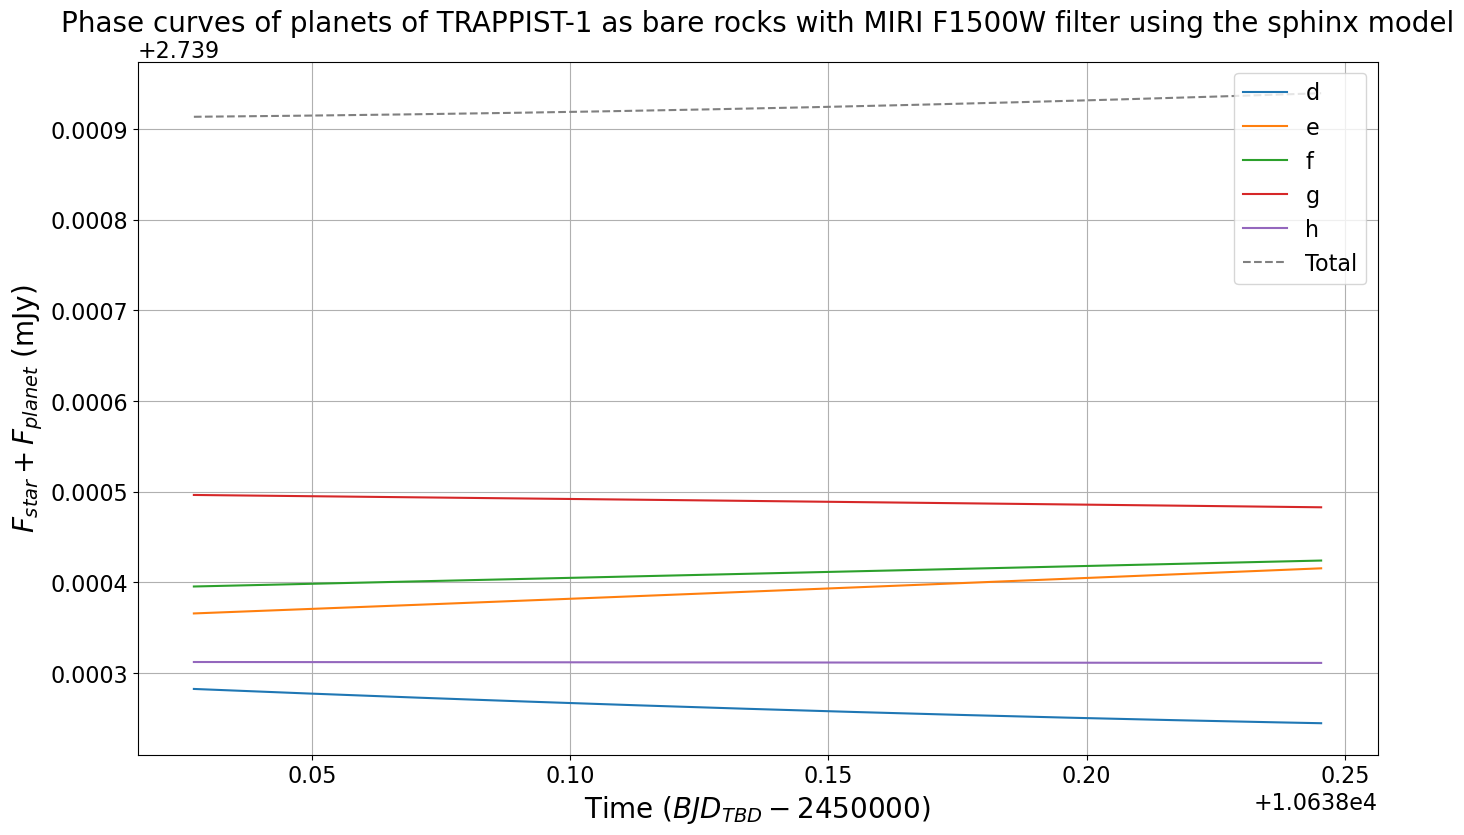
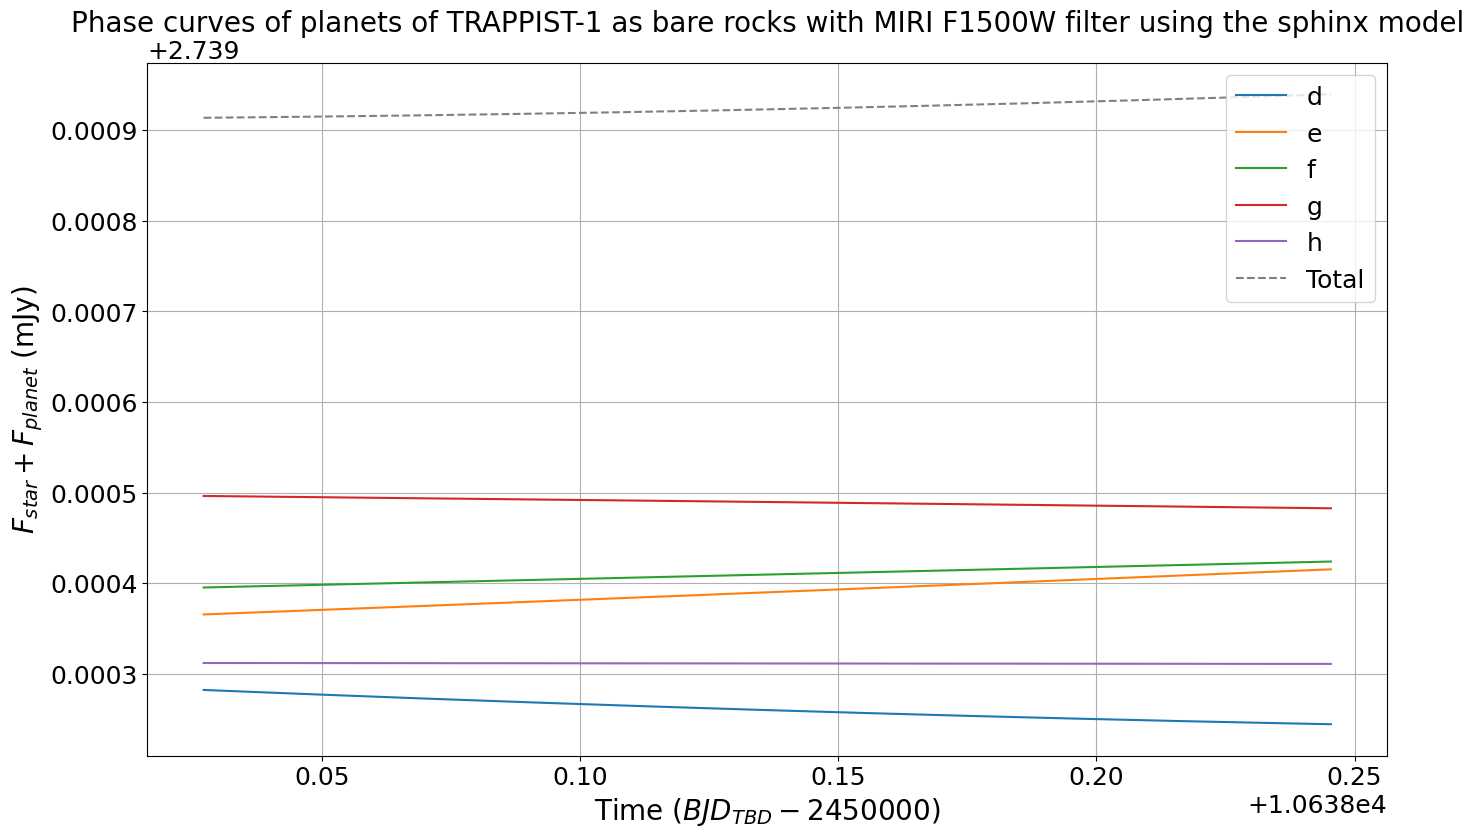
Completed implementation of new fluxes

diff --git a/Code_files/JWST_Obs_plot.py b/Code_files/JWST_Obs_plot.py
@@ -22,9 +22,9 @@ mpl.rcParams.update({
     'font.size': 20,
     'axes.labelsize': 20,
     'axes.titlesize': 20,
-    'xtick.labelsize': 16,
-    'ytick.labelsize': 16,
-    'legend.fontsize': 16,
+    'xtick.labelsize': 18,
+    'ytick.labelsize': 18,
+    'legend.fontsize': 18,
     'figure.figsize': (16, 10),
     # 'lines.linewidth': 2,
     # 'grid.alpha': 0.5,
@@ -47,17 +47,17 @@ unit = 'mJy' # 'ppm' or 'mJy' ('mJy' by default if plot_obs_points is True or mo
 
 model = 'sphinx' # 'phoenix' or 'sphinx'
 
-save_plots = False # Write True if you want to save the plots
+save_plots = True # Write True if you want to save the plots
 
-do_simulation = True # Write True if the simulation hasn't been done yet
+do_simulation = False # Write True if the simulation hasn't been done yet
 
-plot_individual_planets = True # Write True if you want to plot the individual planets as bare rocks to see their phases
+plot_individual_planets = False # Write True if you want to plot the individual planets as bare rocks to see their phases
 
 comparison = True # Write True if you want to compare the bare rock and thick atmosphere cases
 
 plot_obs_points = True # Write True if you want to plot the observations points (in mJy) on the phase curves
 
-points_offset = False # Write True if you want to add an offset to the observation points to place them closer to the phase curves (useful if the observations are too far from the phase curves)
+points_offset = True # Write True if you want to add an offset to the observation points to place them closer to the phase curves (useful if the observations are too far from the phase curves)
 
 
 # def plot_jwst_phase_curves(planets,
@@ -146,7 +146,7 @@ else:
 
 if comparison:
     t_total_simu_atm, phase_curve_total_simu_atm = np.loadtxt("Phase_curve_TTV_output/phase_curve_total_"+planets+"_atm_"+filter+"_"+model+"_"+unit+"_"+str(t0)+".txt", delimiter=",",skiprows=1, unpack=True)
-    plt.plot(t_total_simu_atm, phase_curve_total_simu_atm, color='black', label="Total (atmospheres)")
+    plt.plot(t_total_simu_atm, phase_curve_total_simu_atm, '--', color='grey', label="Total (atmospheres)")
 
 colors = ['blue', 'orange', 'green', 'red', 'purple', 'brown', 'pink']
 j = -1
@@ -156,14 +156,14 @@ if comparison:
 else:
     label_total = "Total flux"
 
-line, = plt.plot(t_total_simu, phase_curve_total_simu, '--', color='grey', label=label_total)
+line, = plt.plot(t_total_simu, phase_curve_total_simu, '-', color='black', label=label_total)
 
 
 # Plot the visits
 
 for i in range(len(t_start)):
     t0 = t_start[i]
-
+    offset = 0
     if filter == None:
         t_visit, phase_curve_total_visit = np.loadtxt("Phase_curve_TTV_output/phase_curve_total_"+planets+"_bolometric_"+str(t0)+".txt", delimiter=',',skiprows=1, unpack=True)
     else:
@@ -174,30 +174,69 @@ for i in range(len(t_start)):
 
     if i == 0 or program_ID[i] != program_ID[i-1]:
         j+=1
-        plt.plot(t_visit, phase_curve_total_visit, color = colors[j], label=program_ID[i], linewidth=3)
+        # plt.plot(t_visit, phase_curve_total_visit, color = colors[j], label=program_ID[i], linewidth=3)
         if plot_obs_points and filter_obs[i]==filter and flux_obs[i] != np.nan:
             if points_offset and program_ID[i] == 'GTO_1279':
-                offset = 0.02
+                if model == "phoenix":
+                    offset = 0.02
+                else:
+                    offset = 0.04
             elif points_offset and program_ID[i] == 'GO_5191':
-                offset = 0.04
+                if model == "phoenix":
+                    offset = 0.04
+                else:
+                    offset = 0.01
+            elif points_offset and (program_ID[i] == 'GTO_1177' or program_ID[i] == 'GO_2304'):
+                if model == "phoenix":
+                    offset = 0.0 # To be determined
+                else:
+                    offset = -0.13
+            elif points_offset and program_ID[i] == 'GO_3077':
+                if model == "phoenix":
+                    offset = 0.0 # To be determined
+                else:
+                    offset = -0.06
             else:
                 offset = 0
             plt.errorbar(np.mean(t_visit), flux_obs[i]+offset, yerr=err_obs[i], fmt='h', color=colors[j], markersize=5, elinewidth=2, capsize=5, label=program_ID[i]+" (observed)", zorder=10)
             errorbar_data.append((np.mean(t_visit), flux_obs[i]+offset, err_obs[i], dict(fmt='h',color=colors[j], markersize=5, elinewidth=2, capsize=5, label=program_ID[i]+" (observed)", zorder=10)))
     else:
-        plt.plot(t_visit, phase_curve_total_visit, color = colors[j], linewidth=3)
+        # plt.plot(t_visit, phase_curve_total_visit, color = colors[j], linewidth=3)
         if plot_obs_points and filter_obs[i]==filter and flux_obs[i] != np.nan:
             if points_offset and program_ID[i] == 'GTO_1279':
-                offset = 0.02
+                if model == "phoenix":
+                    offset = 0.02
+                else:
+                    offset = 0.04
             elif points_offset and program_ID[i] == 'GO_5191':
-                offset = 0.04
+                if model == "phoenix":
+                    offset = 0.04
+                else:
+                    offset = 0.01
+            elif points_offset and (program_ID[i] == 'GTO_1177' or program_ID[i] == 'GO_2304'):
+                if model == "phoenix":
+                    offset = 0.0 # To be determined
+                else:
+                    offset = -0.13
+            elif points_offset and program_ID[i] == 'GO_3077':
+                if model == "phoenix":
+                    offset = 0.0 # To be determined
+                else:
+                    offset = -0.06
             else:
                 offset = 0
             plt.errorbar(np.mean(t_visit), flux_obs[i]+offset, yerr=err_obs[i], fmt='h', color=colors[j], markersize=5, elinewidth=2, capsize=5, zorder=10)
             errorbar_data.append((np.mean(t_visit), flux_obs[i]+offset, err_obs[i], dict(fmt='h',color=colors[j], markersize=5, elinewidth=2, capsize=5, zorder=10)))
-    x_text = np.mean(t_visit)
-    y_text = np.max(phase_curve_total_visit)
-    plt.text(x_text, y_text + 0.2 * np.ptp(phase_curve_total_visit), "Visit "+visit[i], fontsize=12, ha='center', va='bottom', color = colors[j], bbox=dict(facecolor='white', alpha=0.6, edgecolor='white', boxstyle='square,pad=0.3'), zorder=10)
+    
+    # Add visit label
+    if plot_obs_points:
+        x_text = np.mean(t_visit)
+        y_text = flux_obs[i]+1.5*err_obs[i] + offset
+        plt.text(x_text, y_text, "Visit "+visit[i], fontsize=18, ha='center', va='bottom', color = colors[j], bbox=dict(facecolor='white', alpha=0.6, edgecolor='white', boxstyle='square,pad=0.3'), zorder=10)
+    else:
+        x_text = np.mean(t_visit)
+        y_text = np.max(phase_curve_total_visit)
+        plt.text(x_text, y_text + 0.2 * np.ptp(phase_curve_total_visit), "Visit "+visit[i], fontsize=18, ha='center', va='bottom', color = colors[j], bbox=dict(facecolor='white', alpha=0.6, edgecolor='white', boxstyle='square,pad=0.3'), zorder=10)
     # plt.text(x_text, 1.05*y_text, "Visit "+visit[i], fontsize=12, ha='center', va='bottom', color = colors[j], bbox=dict(facecolor='white', alpha=0.6, edgecolor='white', boxstyle='square,pad=0.3'), zorder=10)
 
 plt.xlabel(r"Time ($BJD_{TBD} - 2450000$)")
@@ -206,15 +245,15 @@ if unit == 'ppm':
 else:
     plt.ylabel(r"$F_{star}+F_{planet}$ (mJy)")
 
-if filter == None:
-    plt.title("JWST Observations over the phase curves of TRAPPIST-1 planets with bolometric fluxes from Oct 2022 to Dec 2024")
-else:
-    if redistribution == 1:
-        plt.title("JWST Observations over the phase curves of TRAPPIST-1 planets with atmospheres with MIRI "+filter+" filter using the "+model.upper()+" model from Oct 2022 to Dec 2024")
-    elif comparison:
-        plt.title("JWST Observations over the phase curves of TRAPPIST-1 planets with and without thick atmospheres with MIRI "+filter+" filter using the "+model.upper()+" model from Oct 2022 to Dec 2024")
-    else:
-        plt.title("JWST Observations over the phase curves of TRAPPIST-1 planets as bare rocks with MIRI "+filter+" filter using the "+model.upper()+" model from Oct 2022 to Dec 2024")
+# if filter == None:  # No title for article figures
+#     plt.title("JWST Observations over the phase curves of TRAPPIST-1 planets with bolometric fluxes from Oct 2022 to Dec 2024")
+# else:
+#     if redistribution == 1:
+#         plt.title("JWST Observations over the phase curves of TRAPPIST-1 planets with atmospheres with MIRI "+filter+" filter using the "+model.upper()+" model from Oct 2022 to Dec 2024")
+#     elif comparison:
+#         plt.title("JWST Observations over the phase curves of TRAPPIST-1 planets with and without thick atmospheres with MIRI "+filter+" filter using the "+model.upper()+" model from Oct 2022 to Dec 2024")
+#     else:
+#         plt.title("JWST Observations over the phase curves of TRAPPIST-1 planets as bare rocks with MIRI "+filter+" filter using the "+model.upper()+" model from Oct 2022 to Dec 2024")
 
 plt.legend(loc='lower right', ncol = 2)
 plt.grid()
@@ -224,11 +263,13 @@ if save_plots:
         plt.savefig("JWST_Obs_plots/JWST_Obs_phase_curves_"+planets+"_bolometric_Oct2022-Dec2024.png", bbox_inches='tight')
     else:
         if plot_obs_points and comparison:
-            plt.savefig("Comparisons_obs_JWST/comparison_obs_"+planets+"_"+filter+"_"+model+"_Oct2022-Dec2024.png", bbox_inches='tight')
+            # plt.savefig("Comparisons_obs_JWST/comparison_obs_"+planets+"_"+filter+"_"+model+"_Oct2022-Dec2024.png", bbox_inches='tight')
+            plt.savefig("Article_figures/comparison_obs_"+planets+"_"+filter+"_"+model+"_Oct2022-Dec2024.png", bbox_inches='tight') # For article
         elif redistribution == 1:
             plt.savefig("JWST_Obs_plots/JWST_Obs_phase_curves_"+planets+"_atm_"+filter+"_"+model+"_"+unit+"_Oct2022-Dec2024.png", bbox_inches='tight')
         elif comparison:
-            plt.savefig("Comparisons_bare_rock_atm/comparison_"+planets+"_"+filter+"_"+model+"_"+unit+"_Oct2022-Dec2024.png", bbox_inches='tight')
+            # plt.savefig("Comparisons_bare_rock_atm/comparison_"+planets+"_"+filter+"_"+model+"_"+unit+"_Oct2022-Dec2024.png", bbox_inches='tight')
+            plt.savefig("Article_figures/comparison_"+planets+"_"+filter+"_"+model+"_"+unit+"_Oct2022-Dec2024.png", bbox_inches='tight') # For article
         else:
             plt.savefig("JWST_Obs_plots/JWST_Obs_phase_curves_"+planets+"_"+filter+"_"+model+"_"+unit+"_Oct2022-Dec2024.png", bbox_inches='tight')
 
@@ -303,6 +344,14 @@ for i in range(len(axes)-1):
     axes[i+1].plot((-d, +d), (-d, +d), **kwargs)
     axes[i+1].plot((-d, +d), (1-d, 1+d), **kwargs)
 
+# # Add dummy points for errorbar legend entries
+# for (_, _, _, fmt) in errorbar_data:
+#     label = fmt.get("label")
+#     if label:  # only once per label
+#         axes[0].plot([], [], fmt['fmt'], color=fmt['color'], label=label)
+#         fmt["label"] = None  # prevent duplicates
+
+
 handles, labels = axes[0].get_legend_handles_labels()
 
 if plot_obs_points == False:
@@ -310,22 +359,22 @@ if plot_obs_points == False:
 else:
     fig.legend(handles, labels, ncols = 2)
 
-fig.text(0.5, 0.02, r"Time ($BJD_{TBD} - 2450000$)", ha="center")
+fig.text(0.5, 0.01, r"Time ($BJD_{TBD} - 2450000$)", ha="center")
 if unit == 'ppm':
-    fig.text(0.05, 0.5, r"$F_{planet}/F_{star}$ (ppm)", va="center", rotation="vertical")
+    fig.text(0.05, 0.5, r"$F_{p}/F_{s}$ (ppm)", va="center", rotation="vertical")
 else:
-    fig.text(0.05, 0.5, r"$F_{star}+F_{planet}$ (mJy)", va="center", rotation="vertical")
+    fig.text(0.05, 0.5, r"$F_{s}+F_{p}$ (mJy)", va="center", rotation="vertical")
 plt.subplots_adjust(wspace=0.05)
 
-if filter == None:
-    plt.suptitle("Close-up on JWST Observations over the phase curves of TRAPPIST-1 planets\n with bolometric fluxes from Oct 2022 to Dec 2024", fontsize=20)
-else:
-    if redistribution == 1:
-        plt.suptitle("Close-up on JWST Observations over the phase curves of TRAPPIST-1 planets\n with atmospheres with MIRI "+filter+" filter using the "+model.upper()+" model from Oct 2022 to Dec 2024", fontsize=20)
-    elif comparison:
-        plt.suptitle("Close-up on JWST Observations over the phase curves of TRAPPIST-1 planets\n with and without thick atmospheres with MIRI "+filter+" filter using the "+model.upper()+" model from Oct 2022 to Dec 2024")
-    else:
-        plt.suptitle("Close-up on JWST Observations over the phase curves of TRAPPIST-1 planets\n as bare rocks with MIRI "+filter+" filter using the "+model.upper()+" model from Oct 2022 to Dec 2024", fontsize=20)
+# if filter == None: # No title for article figures
+#     plt.suptitle("Close-up on JWST Observations over the phase curves of TRAPPIST-1 planets\n with bolometric fluxes from Oct 2022 to Dec 2024", fontsize=20)
+# else:
+#     if redistribution == 1:
+#         plt.suptitle("Close-up on JWST Observations over the phase curves of TRAPPIST-1 planets\n with atmospheres with MIRI "+filter+" filter using the "+model.upper()+" model from Oct 2022 to Dec 2024", fontsize=20)
+#     elif comparison:
+#         plt.suptitle("Close-up on JWST Observations over the phase curves of TRAPPIST-1 planets\n with and without thick atmospheres with MIRI "+filter+" filter using the "+model.upper()+" model from Oct 2022 to Dec 2024")
+#     else:
+#         plt.suptitle("Close-up on JWST Observations over the phase curves of TRAPPIST-1 planets\n as bare rocks with MIRI "+filter+" filter using the "+model.upper()+" model from Oct 2022 to Dec 2024", fontsize=20)
 
 # plt.tight_layout(rect=[0.05, 0.05, 1, 0.93])
 
@@ -334,11 +383,13 @@ if save_plots:
         plt.savefig("JWST_Obs_plots/JWST_Obs_phase_curves_"+planets+"_bolometric_Oct2022-Dec2024_zoom.png", bbox_inches='tight')
     else:
         if plot_obs_points and comparison:
-            plt.savefig("Comparisons_obs_JWST/comparison_obs_"+planets+"_"+filter+"_"+model+"_Oct2022-Dec2024_zoom.png", bbox_inches='tight')
-        if redistribution == 1:
+            # plt.savefig("Comparisons_obs_JWST/comparison_obs_"+planets+"_"+filter+"_"+model+"_Oct2022-Dec2024_zoom.png", bbox_inches='tight')
+            plt.savefig("Article_figures/comparison_obs_"+planets+"_"+filter+"_"+model+"_Oct2022-Dec2024_zoom.png", bbox_inches='tight') # For article
+        elif redistribution == 1:
             plt.savefig("JWST_Obs_plots/JWST_Obs_phase_curves_"+planets+"_atm_"+filter+"_"+model+"_"+unit+"_Oct2022-Dec2024_zoom.png", bbox_inches='tight')
         elif comparison:
-            plt.savefig("Comparisons_bare_rock_atm/comparison_"+planets+"_"+filter+"_"+model+"_"+unit+"_Oct2022-Dec2024_zoom.png", bbox_inches='tight')
+            # plt.savefig("Comparisons_bare_rock_atm/comparison_"+planets+"_"+filter+"_"+model+"_"+unit+"_Oct2022-Dec2024_zoom.png", bbox_inches='tight')
+            plt.savefig("Article_figures/comparison_"+planets+"_"+filter+"_"+model+"_"+unit+"_Oct2022-Dec2024_zoom.png", bbox_inches='tight') # For article
         else:
             plt.savefig("JWST_Obs_plots/JWST_Obs_phase_curves_"+planets+"_"+filter+"_"+model+"_"+unit+"_Oct2022-Dec2024_zoom.png", bbox_inches='tight')
 
